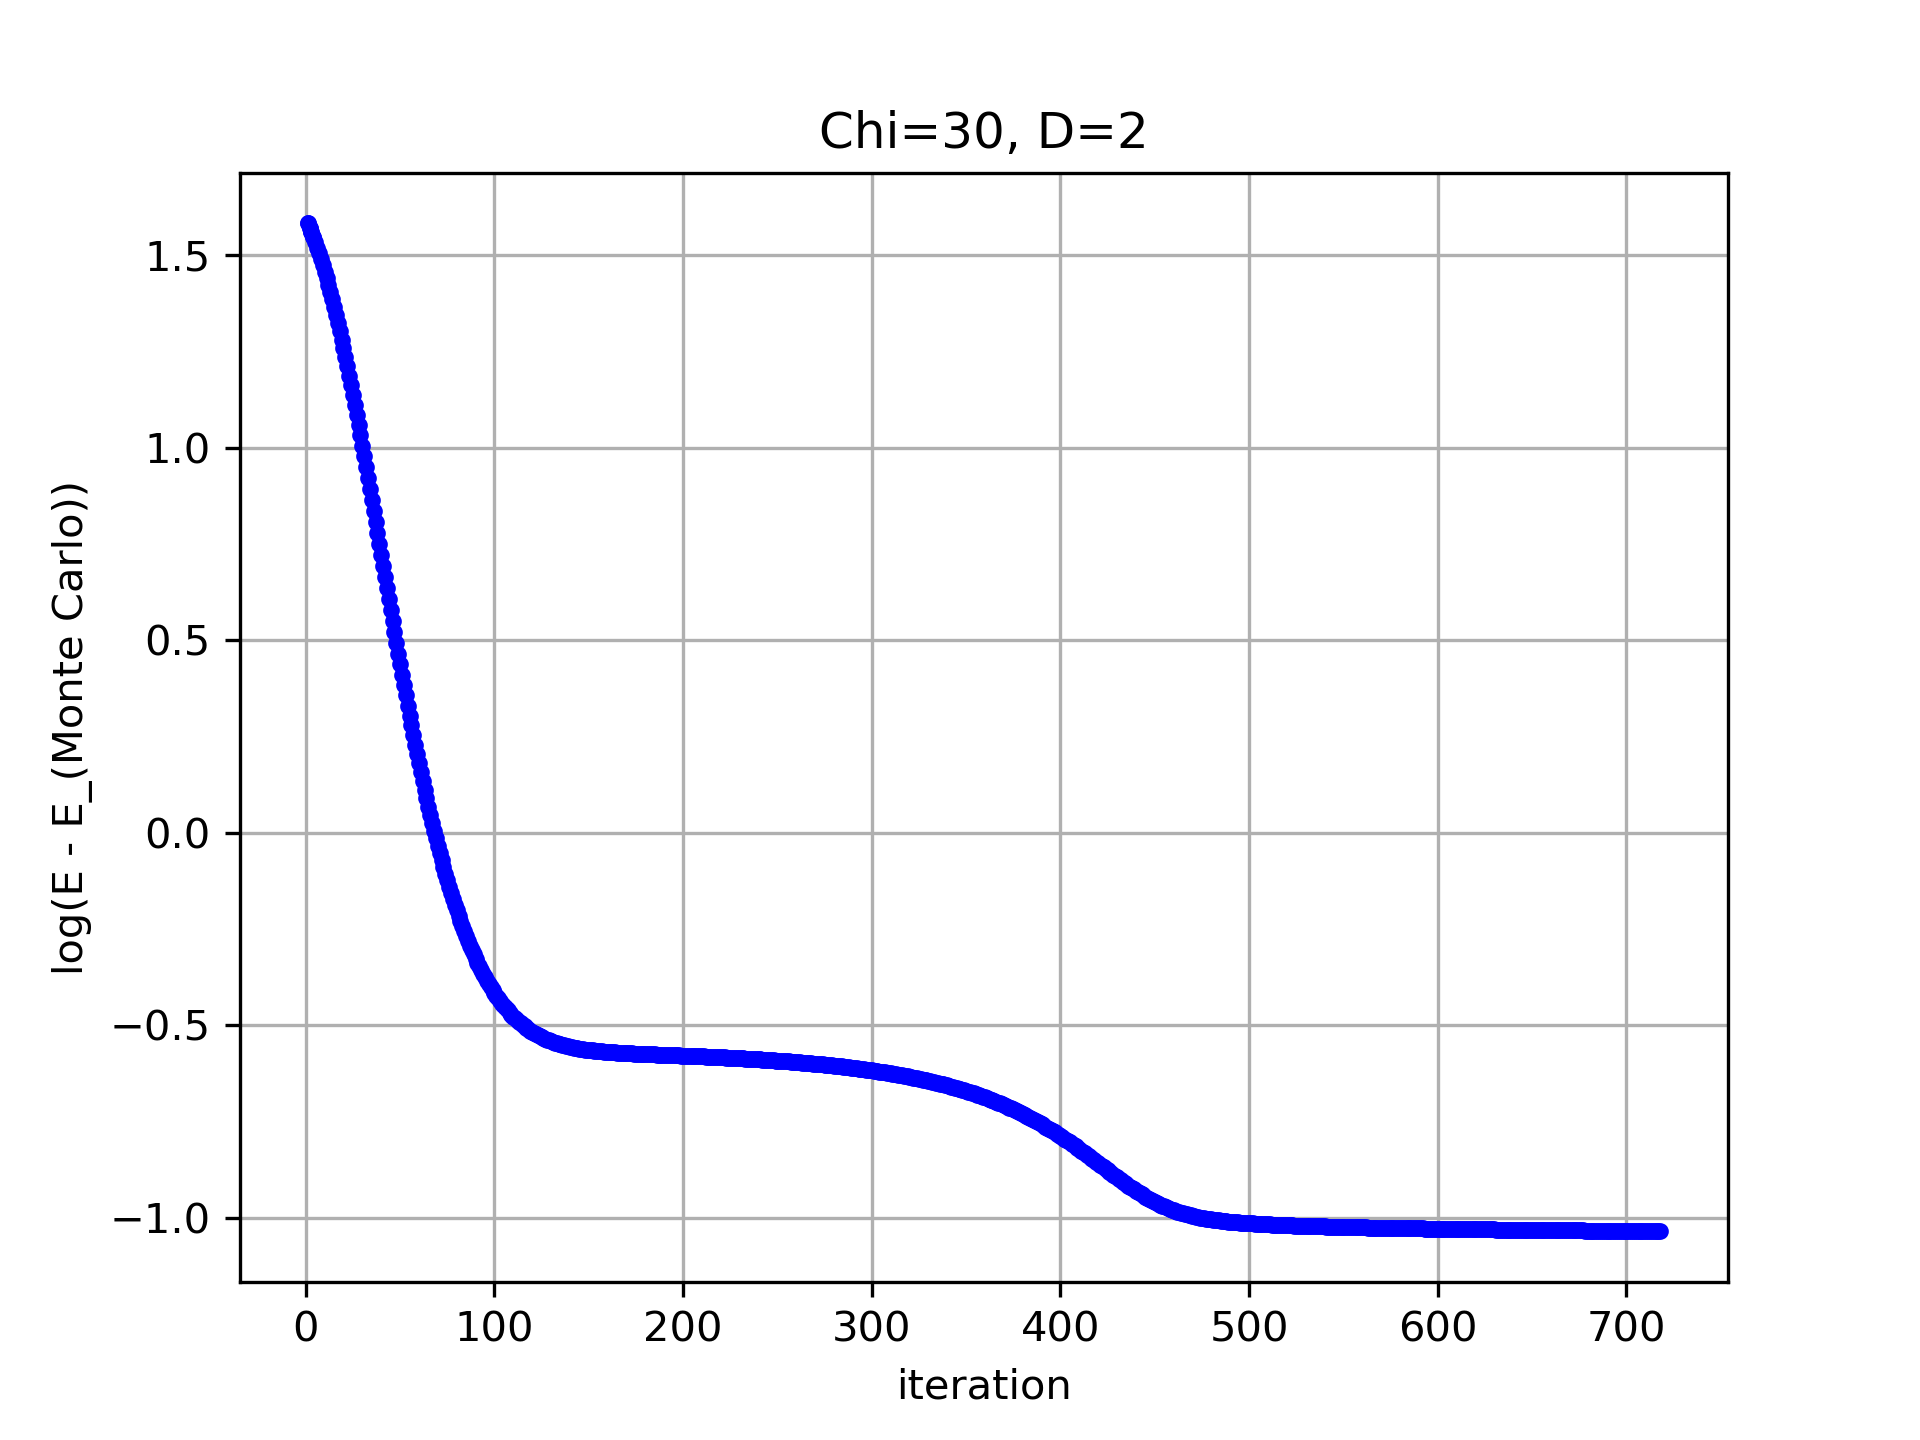
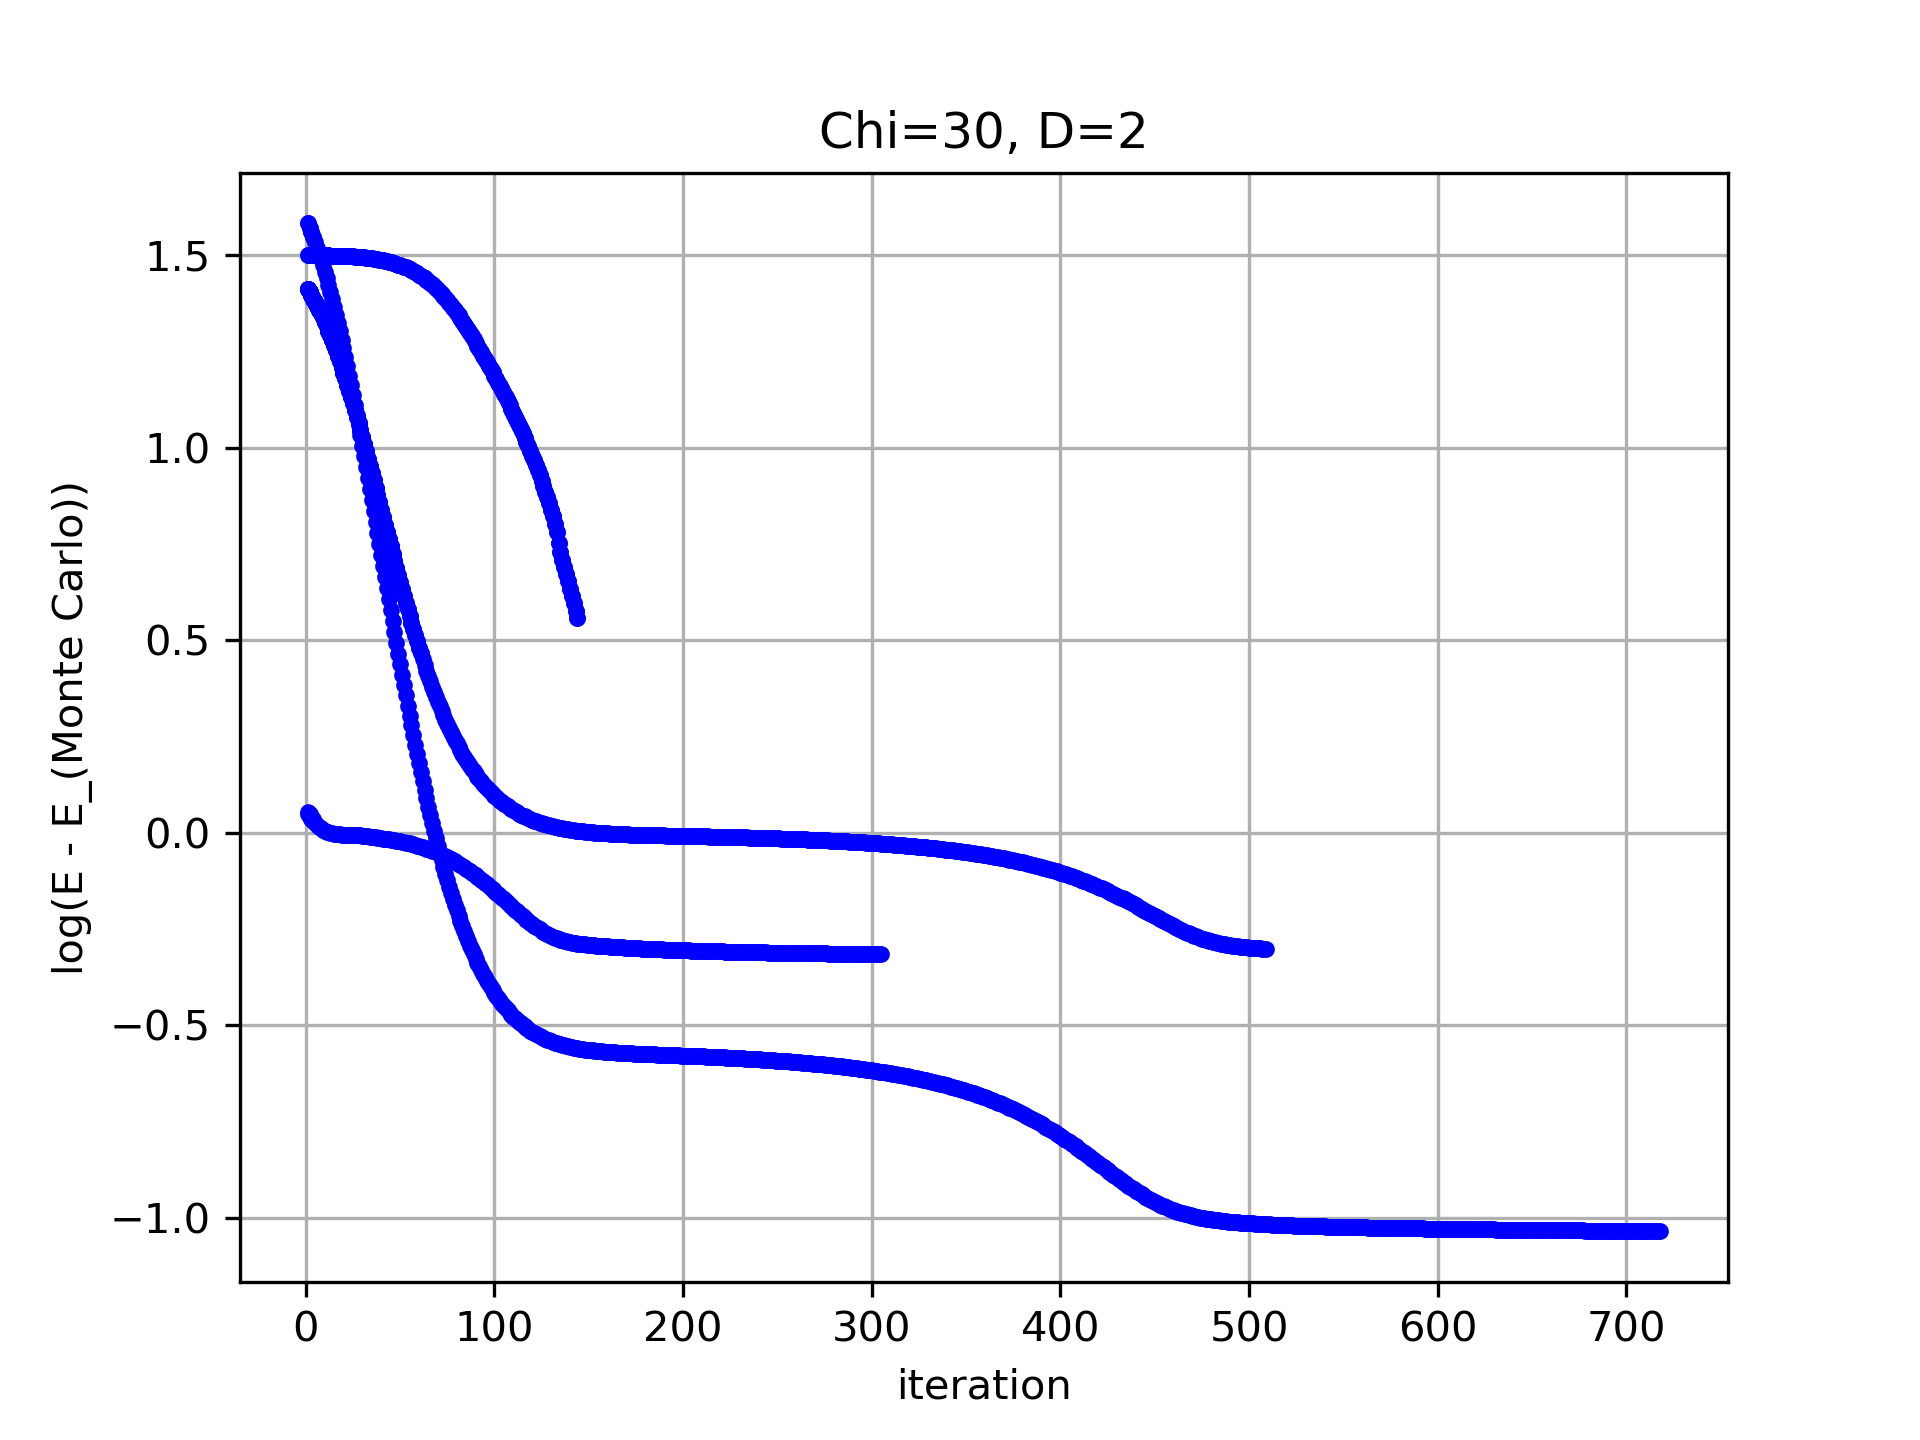
..

diff --git a/variational_iPEPS/main.py b/variational_iPEPS/main.py
@@ -45,9 +45,7 @@ if __name__=='__main__':
         except FileNotFoundError:
             print('not found:', args.load)
 
-    # optimizer = torch.optim.LBFGS(model.parameters(), max_iter=10)
     optimizer =  torch.optim.Adam(model.parameters(), lr=1e-3)
-    # optimizer = torch.optim.RMSprop(model.parameters(), lr=1e-3, alpha=0.99, eps=1e-08)
 
     params = list(model.parameters())
     params = list(filter(lambda p: p.requires_grad, params))
@@ -64,8 +62,13 @@ if __name__=='__main__':
         key += '_float64'
     if args.dtype=="cfloat": #(args.float32):
         key += '_cfloat'    
+
+    if args.model=='maple_leaf':
+        key += f'_Jd{args.Jd:.2f}_Jt{args.Jt:.2f}'
+
     cmd = ['mkdir', '-p', key]
     subprocess.check_call(cmd)
+
 
     if args.model == 'Heisenberg':
         # Hamiltonian operators on a bond
@@ -79,8 +82,8 @@ if __name__=='__main__':
 
         # now assuming Jz>0, Jxy > 0
         # We flip the spin on one of the sub-lattice to get back to a one-site unit cell in the iPEPS wavefunction.
-        h = 2*kron(sz,sz)+(kron(sm, sp)+kron(sp,sm))
-        # h = 2*kron(sz,4*sx@sz@sx)-(kron(sm, 4*sx@sp@sx)+kron(sp,4*sx@sm@sx))
+        # h = 2*kron(sz,sz)+(kron(sm, sp)+kron(sp,sm))
+        h = 2*kron(sz,4*sx@sz@sx)-(kron(sm, 4*sx@sp@sx)+kron(sp,4*sx@sm@sx))
 
         H =[h/2]
         
@@ -89,11 +92,8 @@ if __name__=='__main__':
         Mpy = kron(sp, id2)
         Mpz = kron(sm, id2)
 
-
     elif args.model == 'maple_leaf':
             
-
-
             # For now we assume to be in the Neel phase
             sx = torch.tensor([[0, 1], [1, 0]], dtype=dtype, device=device)*0.5
             sy = torch.tensor([[0, -1], [1, 0]], dtype=dtype, device=device)*0.5
@@ -218,32 +218,32 @@ if __name__=='__main__':
             H2 = Hy(id2,id2,id2,Ry(np.pi),Ry(np.pi),Ry(np.pi)) 
             H3 = Hx(id2,id2,id2,Ry(np.pi),Ry(np.pi),Ry(np.pi)) 
 
-            H = [H2]
+            H = [H1/6]
             # H2 = Hy(id2,id2,id2,Rypi,Rypi,Rypi)
             # H1 = Hx(id2,id2,id2,Rypi,Rypi,Rypi)
             # H = [H3]
 
             # Ruby lattice (120-canted order)
-            pi = np.pi
-            # H1 = Hz(Ry(-1/6*pi), Ry(-3/2*pi), Ry(-5/6*pi),Ry(-0/1*pi),Ry(-2/3*pi), Ry(-4/3*pi))
-            # H2 = Hz(Ry(-3/2*pi), Ry(-5/6*pi), Ry(-1/6*pi),Ry(-4/3*pi),Ry(-0/1*pi), Ry(-2/3*pi))
-            # H3 = Hz(Ry(-5/6*pi), Ry(-1/6*pi), Ry(-3/2*pi),Ry(-2/3*pi),Ry(-4/3*pi), Ry(-0/1*pi))
+            # pi = np.pi
+            # # H1 = Hz(Ry(-1/6*pi), Ry(-3/2*pi), Ry(-5/6*pi),Ry(-0/1*pi),Ry(-2/3*pi), Ry(-4/3*pi))
+            # # H2 = Hz(Ry(-3/2*pi), Ry(-5/6*pi), Ry(-1/6*pi),Ry(-4/3*pi),Ry(-0/1*pi), Ry(-2/3*pi))
+            # # H3 = Hz(Ry(-5/6*pi), Ry(-1/6*pi), Ry(-3/2*pi),Ry(-2/3*pi),Ry(-4/3*pi), Ry(-0/1*pi))
             
-            H1 = Hz(Ry(-0/1*pi), Ry(-2/3*pi), Ry(-4/3*pi),Ry(-1/6*pi),Ry(-3/2*pi), Ry(-5/6*pi))
-            H2 = Hz(Ry(-4/3*pi), Ry(-0/6*pi), Ry(-2/3*pi),Ry(-3/2*pi),Ry(-5/6*pi), Ry(-1/6*pi))
-            H3 = Hz(Ry(-2/3*pi), Ry(-4/3*pi), Ry(-0/2*pi),Ry(-5/6*pi),Ry(-1/6*pi), Ry(-3/2*pi))
+            # H1 = Hz(Ry(-0/1*pi), Ry(-2/3*pi), Ry(-4/3*pi),Ry(-1/6*pi),Ry(-3/2*pi), Ry(-5/6*pi))
+            # H2 = Hz(Ry(-4/3*pi), Ry(-0/6*pi), Ry(-2/3*pi),Ry(-3/2*pi),Ry(-5/6*pi), Ry(-1/6*pi))
+            # H3 = Hz(Ry(-2/3*pi), Ry(-4/3*pi), Ry(-0/2*pi),Ry(-5/6*pi),Ry(-1/6*pi), Ry(-3/2*pi))
             
-            # H4 = Hx(Ry(-5/6*pi),Ry(-1/6*pi),Ry(-3/2*pi),Ry(-0/1*pi),Ry(-2/3*pi),Ry(-4/3*pi))
-            # H5 = Hx(Ry(-1/6*pi),Ry(-3/2*pi),Ry(-5/6*pi),Ry(-4/3*pi),Ry(-0/1*pi),Ry(-2/3*pi))
-            # H6 = Hx(Ry(-3/2*pi),Ry(-5/6*pi),Ry(-1/6*pi),Ry(-2/3*pi),Ry(-4/3*pi),Ry(-0/1*pi))
+            # # H4 = Hx(Ry(-5/6*pi),Ry(-1/6*pi),Ry(-3/2*pi),Ry(-0/1*pi),Ry(-2/3*pi),Ry(-4/3*pi))
+            # # H5 = Hx(Ry(-1/6*pi),Ry(-3/2*pi),Ry(-5/6*pi),Ry(-4/3*pi),Ry(-0/1*pi),Ry(-2/3*pi))
+            # # H6 = Hx(Ry(-3/2*pi),Ry(-5/6*pi),Ry(-1/6*pi),Ry(-2/3*pi),Ry(-4/3*pi),Ry(-0/1*pi))
             
-            # H7 = Hy(Ry(-3/2*pi),Ry(-5/6*pi),Ry(-1/6*pi),Ry(-0/1*pi),Ry(-2/3*pi),Ry(-4/3*pi))
-            # H8 = Hy(Ry(-5/6*pi),Ry(-1/6*pi),Ry(-3/2*pi),Ry(-4/3*pi),Ry(-0/1*pi),Ry(-2/3*pi))
-            # H9 = Hy(Ry(-1/6*pi),Ry(-3/2*pi),Ry(-5/6*pi),Ry(-2/3*pi),Ry(-4/3*pi),Ry(-0/1*pi))
+            # # H7 = Hy(Ry(-3/2*pi),Ry(-5/6*pi),Ry(-1/6*pi),Ry(-0/1*pi),Ry(-2/3*pi),Ry(-4/3*pi))
+            # # H8 = Hy(Ry(-5/6*pi),Ry(-1/6*pi),Ry(-3/2*pi),Ry(-4/3*pi),Ry(-0/1*pi),Ry(-2/3*pi))
+            # # H9 = Hy(Ry(-1/6*pi),Ry(-3/2*pi),Ry(-5/6*pi),Ry(-2/3*pi),Ry(-4/3*pi),Ry(-0/1*pi))
             
-            # H = [H1,H2,H3,H4,H5,H6,H7,H8,H9]
-            # H = [H1,H2,H3]
-            H1 = Hz(id2,id2,id2,id2,id2,id2)
+            # # H = [H1,H2,H3,H4,H5,H6,H7,H8,H9]
+            # # H = [H1,H2,H3]
+            # H1 = Hz(id2,id2,id2,id2,id2,id2)
 
             Mpx = kron(kron(kron(id2,sx),kron(id2,id2)),kron(id2,id2))
             Mpy = kron(kron(kron(id2,sy),kron(id2,id2)),kron(id2,id2))
@@ -258,26 +258,42 @@ if __name__=='__main__':
             sm = torch.tensor([[0, 0], [1, 0]], dtype=dtype, device=device)
             sz = torch.tensor([[1, 0], [0, -1]], dtype=dtype, device=device)*0.5
             id2 = torch.tensor([[1, 0], [0, 1]], dtype=dtype, device=device)
+            
+            def Ry(theta):
+                return np.cos(theta/2)*id2 + np.sin(theta/2)*sy*2
 
-            tx = sx
+
+            theta = np.pi
+
             tp = sp
             tm = sm
-            ty = sy
             tz = sz
+
 
             Mpz = kron(kron(sz,id2),kron(id2,id2))
             Mpx = kron(kron(sp,id2),kron(id2,id2))
             Mpy = kron(kron(sm,id2),kron(id2,id2))
 
-            hy =        kron(kron(sp,id2),kron(sm,id2))/2 
-            hy = hy +   kron(kron(sm,id2),kron(sp,id2))/2 
-            hy = hy +   kron(kron(sz,id2),kron(sz,id2))
-            hy = hy +   kron(kron(id2,tp),kron(id2,tm))/2 
-            hy = hy +   kron(kron(id2,tm),kron(id2,tp))/2
-            hy = hy +   kron(kron(id2,tz),kron(id2,tz))
-            hy = hy + 4*(kron(kron(sp,tp),kron(sm,tm))/4 + kron(kron(sp,tm),kron(sm,tp))/4 + kron(kron(sp,tz),kron(sm,tz))/2)
-            hy = hy + 4*(kron(kron(sm,tp),kron(sp,tm))/4 + kron(kron(sm,tm),kron(sp,tp))/4 + kron(kron(sm,tz),kron(sp,tz))/2)
-            hy = hy + 4*(kron(kron(sz,tp),kron(sz,tm))/2 + kron(kron(sz,tm),kron(sz,tp))/2 + kron(kron(sz,tz),kron(sz,tz)))
+            hy =        kron(kron(sp,id2),kron(Ry(theta)@sm@Ry(theta).t(),id2))/2 
+            hy = hy +   kron(kron(sm,id2),kron(Ry(theta)@sp@Ry(theta).t(),id2))/2 
+            hy = hy +   kron(kron(sz,id2),kron(Ry(theta)@sz@Ry(theta).t(),id2))
+
+            hy = hy +   kron(kron(id2,tp),kron(id2,Ry(theta)@tm@Ry(theta).t()))/2 
+            hy = hy +   kron(kron(id2,tm),kron(id2,Ry(theta)@tp@Ry(theta).t()))/2
+            hy = hy +   kron(kron(id2,tz),kron(id2,Ry(theta)@tz@Ry(theta).t()))
+
+            hy = hy + 4*(kron(kron(sp,tp),kron(Ry(theta)@sm@Ry(theta).t(),Ry(theta)@tm@Ry(theta).t()))/4 + \
+                         kron(kron(sp,tm),kron(Ry(theta)@sm@Ry(theta).t(),Ry(theta)@tp@Ry(theta).t()))/4 + \
+                         kron(kron(sp,tz),kron(Ry(theta)@sm@Ry(theta).t(),Ry(theta)@tz@Ry(theta).t()))/2)
+            
+            hy = hy + 4*(kron(kron(sm,tp),kron(Ry(theta)@sp@Ry(theta).t(),Ry(theta)@tm@Ry(theta).t()))/4 + \
+                         kron(kron(sm,tm),kron(Ry(theta)@sp@Ry(theta).t(),Ry(theta)@tp@Ry(theta).t()))/4 + \
+                         kron(kron(sm,tz),kron(Ry(theta)@sp@Ry(theta).t(),Ry(theta)@sz@Ry(theta).t()))/2)
+            
+            hy = hy + 4*(kron(kron(sz,tp),kron(Ry(theta)@sz@Ry(theta).t(),Ry(theta)@tm@Ry(theta).t()))/2 + \
+                         kron(kron(sz,tm),kron(Ry(theta)@sz@Ry(theta).t(),Ry(theta)@tp@Ry(theta).t()))/2 + \
+                         kron(kron(sz,tz),kron(Ry(theta)@sz@Ry(theta).t(),Ry(theta)@tz@Ry(theta).t())))
+
             hy = hy + 1/4*kron(kron(id2,id2),kron(id2,id2))
 
             H = [hy]
@@ -305,22 +321,6 @@ if __name__=='__main__':
         # Return loss for monitoring
         return loss.item(), Mx, My, Mz
 
-    # for the LGBS optimiser
-    def closure():
-        # Zero the gradients from the previous step
-        optimizer.zero_grad()
-        # Start the timer for performance measurement
-        start = time.time()
-        # Perform a forward pass through the model
-        loss, Mx, My, Mz = model.forward(H, Mpx, Mpy, Mpz, args.chi, dtype)
-        # Record the time taken for the forward pass
-        forward = time.time()
-        # Perform backpropagation to compute gradients
-        loss.backward()
-        #print (model.A.norm().item(), model.A.grad.norm().item(), loss.item(), Mx.item(), My.item(), Mz.item(), torch.sqrt(Mx**2+My**2+Mz**2).item(), forward-start, time.time()-forward)
-        return loss
-
-
     with io.open(key + '.log', 'a', buffering=1, newline='\n') as logfile:
 
         En = 4
@@ -331,8 +331,6 @@ if __name__=='__main__':
 
             # Train step and get loss and magnetization values
             loss, Mx, My, Mz = train_step(H, Mpx, Mpy, Mpz, args, dtype)
-
-            # loss = optimizer.step(closure)
            
             # Save checkpoint periodically
             if (epoch % args.save_period == 0):

diff --git a/variational_iPEPS/ipeps.py b/variational_iPEPS/ipeps.py
@@ -21,11 +21,11 @@ class honeycombiPEPS(torch.nn.Module):
         
         B1 = torch.abs(torch.rand(d, D, D, D, dtype=dtype, device=device))
         B1 = B1/B1.norm()
-        # B2 = torch.abs(torch.rand(d, D, D, D, dtype=dtype, device=device))
-        # B2 = B2/B2.norm()
+        B2 = torch.abs(torch.rand(d, D, D, D, dtype=dtype, device=device))
+        B2 = B2/B2.norm()
 
         self.A1 = torch.nn.Parameter(B1)
-        # self.A2 = torch.nn.Parameter(B2)
+        self.A2 = torch.nn.Parameter(B2)
         
     def forward(self, H, Mpx, Mpy, Mpz, chi, dtype):
         
@@ -38,24 +38,26 @@ class honeycombiPEPS(torch.nn.Module):
         
         if d == 8:
             A1symm = self.A1
-            # A2symm = self.A2
+            A2symm = self.A2
+
             A1symm = self.A1.reshape(2,2,2,D,D,D)
             A1symm = A1symm.permute(0,1,2, 3,4,5) +  A1symm.permute(1,2,0 , 4,5,3) +  A1symm.permute(2,0,1, 5,3,4) 
             A1symm = A1symm.reshape(8, D,D,D)
 
-            A2symm = A1symm
-            # A2symm = self.A2.reshape(2,2,2,D,D,D)
-            # A2symm = A2symm.permute(0,1,2, 3,4,5) +  A2symm.permute(1,2,0 , 4,5,3) +  A2symm.permute(2,0,1, 5,3,4) 
-            # A2symm = A2symm.reshape(8, D,D,D)
+            A2symm = self.A2.reshape(2,2,2,D,D,D)
+            A2symm = A2symm.permute(0,1,2, 3,4,5) +  A2symm.permute(1,2,0 , 4,5,3) +  A2symm.permute(2,0,1, 5,3,4) 
+            A2symm = A2symm.reshape(8, D,D,D)
+
+            A1symm = A1symm/A1symm.norm()
+            A2symm = A2symm/A2symm.norm()
+
+
         elif d==4:
             A1symm = self.A1
-            # A2symm = self.A2
+            A2symm = self.A2
             A1symm = A1symm.permute(0, 1,2,3) +  A1symm.permute(0 , 2,3,1) +  A1symm.permute(0, 3,1,2) 
-            # A2symm = A2symm.permute(0, 1,2,3) +  A2symm.permute(0 , 2,3,1) +  A2symm.permute(0, 3,1,2) 
-            A2symm = A1symm
-
-
-
+            A2symm = A2symm.permute(0, 1,2,3) +  A2symm.permute(0 , 2,3,1) +  A2symm.permute(0, 3,1,2) 
+            # A2symm = A1symm
         else:
             A1symm = self.A1.permute(0,1,2,3) +  self.A1.permute(0,2,3,1) + self.A1.permute(0,3,1,2) 
             A2symm = self.A2.permute(0,1,2,3) +  self.A2.permute(0,2,3,1) + self.A2.permute(0,3,1,2) 

diff --git a/variational_iPEPS/args.py b/variational_iPEPS/args.py
@@ -6,7 +6,7 @@ parser.add_argument("-d", type=int, default=2, help="d")
 parser.add_argument("-D", type=int, default=3, help="D")
 parser.add_argument("-chi", type=int, default=10, help="chi")
 parser.add_argument("-chi_obs", type=int, default=None, help="chi for measure observables")
-parser.add_argument("-Nepochs", type=int, default=100, help="Nepochs")
+parser.add_argument("-Nepochs", type=int, default=1000, help="Nepochs")
 parser.add_argument("-Niter", type=int, default=100, help="Niter")
 parser.add_argument("-Jz", type=float, default=1.0, help="Jz")
 parser.add_argument("-Jxy", type=float, default=1.0, help="Jxy")
@@ -14,10 +14,10 @@ parser.add_argument("-hx", type=float, default=1.0, help="hx")
 parser.add_argument("-model", default='Heisenberg', choices=['maple_leaf', 'Heisenberg', 'SO(4)'], help="model name")
 parser.add_argument("-load", default=None, help="load wavefunction file")
 parser.add_argument("-save_period", type=int, default=1, help="")
-parser.add_argument("-Jh", type=float, default=1.0, help="Jh") 
+parser.add_argument("-Jh", type=float, default=0.0, help="Jh") 
 parser.add_argument("-Jd", type=float, default=1.0, help="Jd") 
-parser.add_argument("-Jt", type=float, default=0.0, help="Jt") 
-parser.add_argument("-dtype", type=str, default="float32", help="use float32")
+parser.add_argument("-Jt", type=float, default=0.12, help="Jt") 
+parser.add_argument("-dtype", type=str, default="float64", help="use float32")
 parser.add_argument("-use_checkpoint", action='store_true', help="use checkpoint")
 parser.add_argument("-cuda", type=int, default=-1, help="GPU #")
 

diff --git a/variational_iPEPS/utils.py b/variational_iPEPS/utils.py
@@ -32,8 +32,6 @@ def save_checkpoint(checkpoint_path, model, optimizer):
     state = {'state_dict': model.state_dict(),
              'optimizer' : optimizer.state_dict()}
     
-    #print(model.state_dict().keys())
-    # Save the state dictionary to a file
     torch.save(state, checkpoint_path)
 
     #print('model saved to %s' % checkpoint_path)
